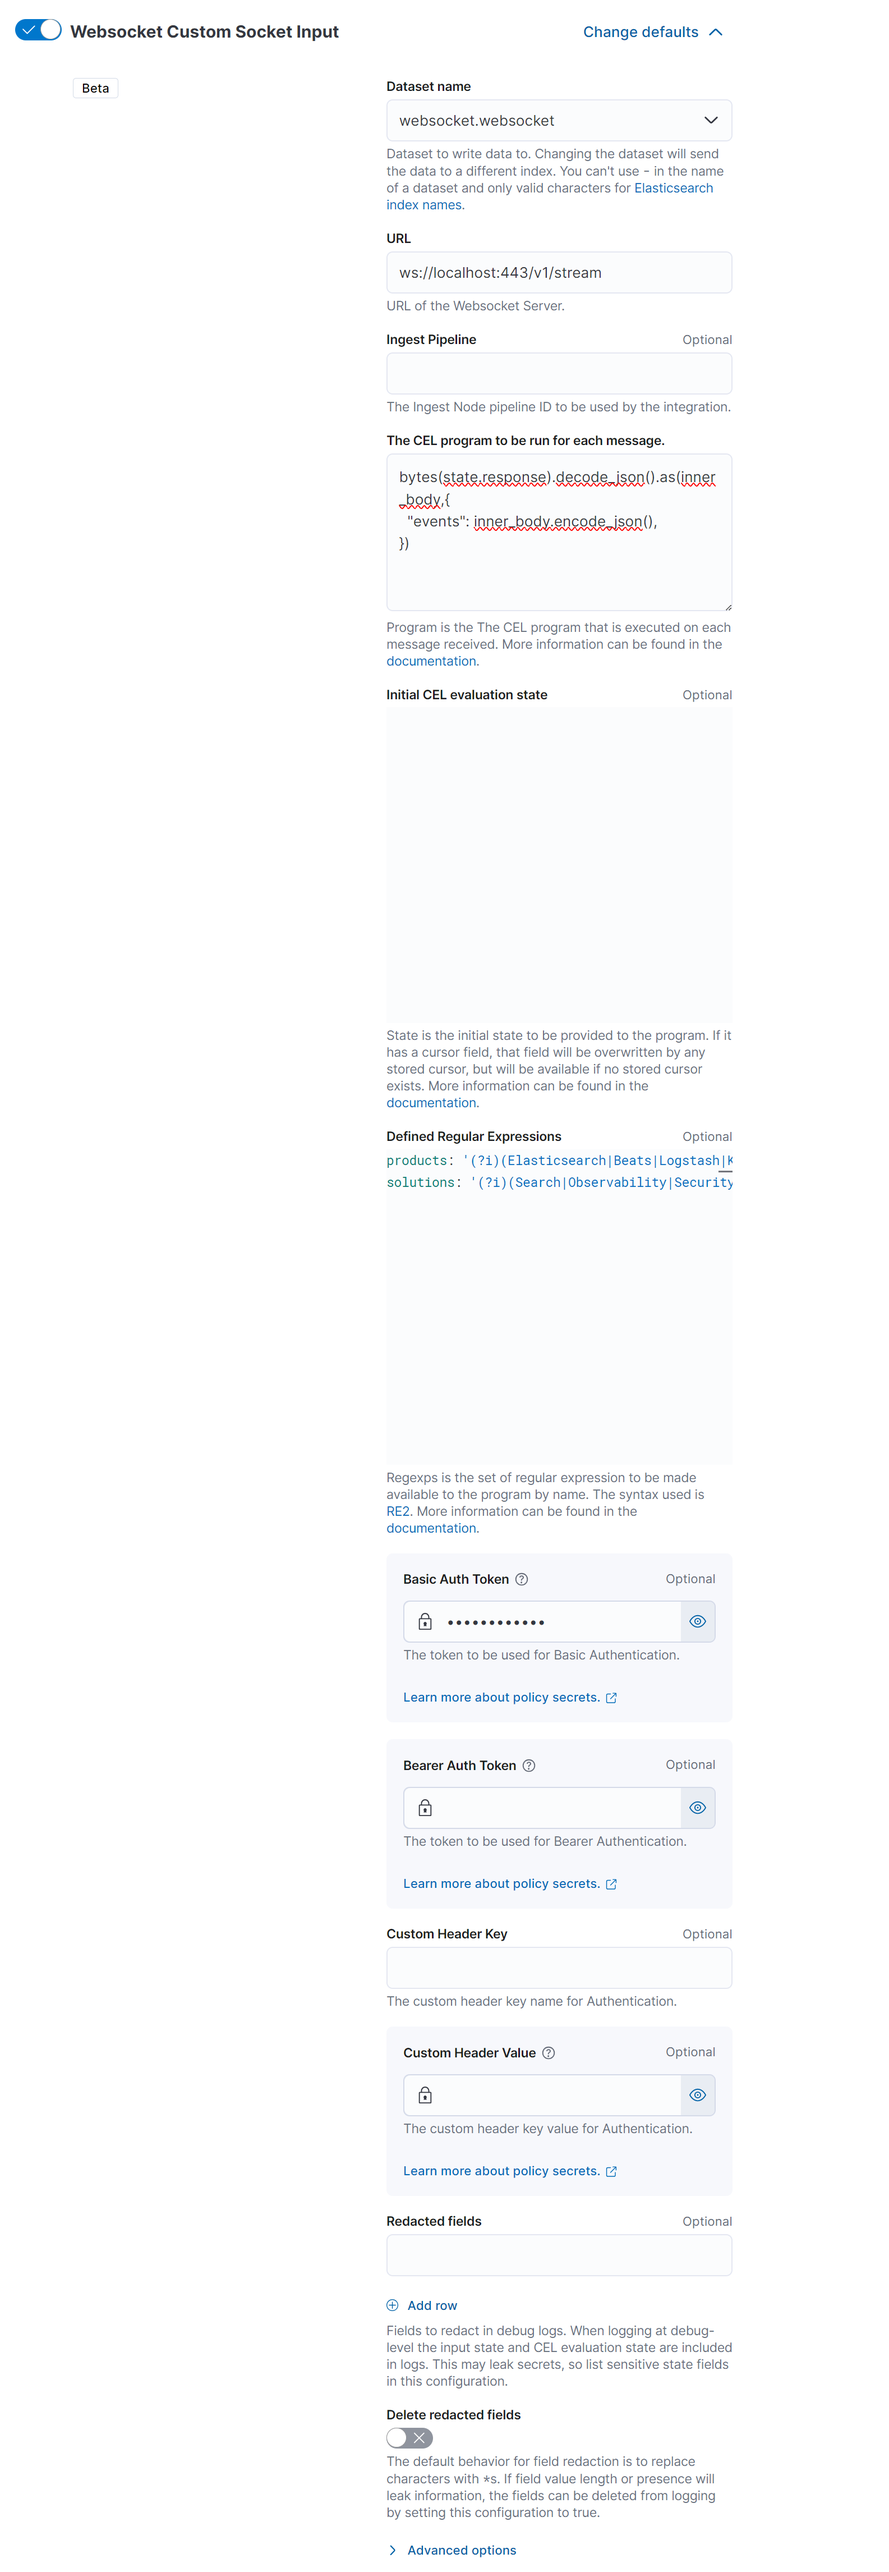
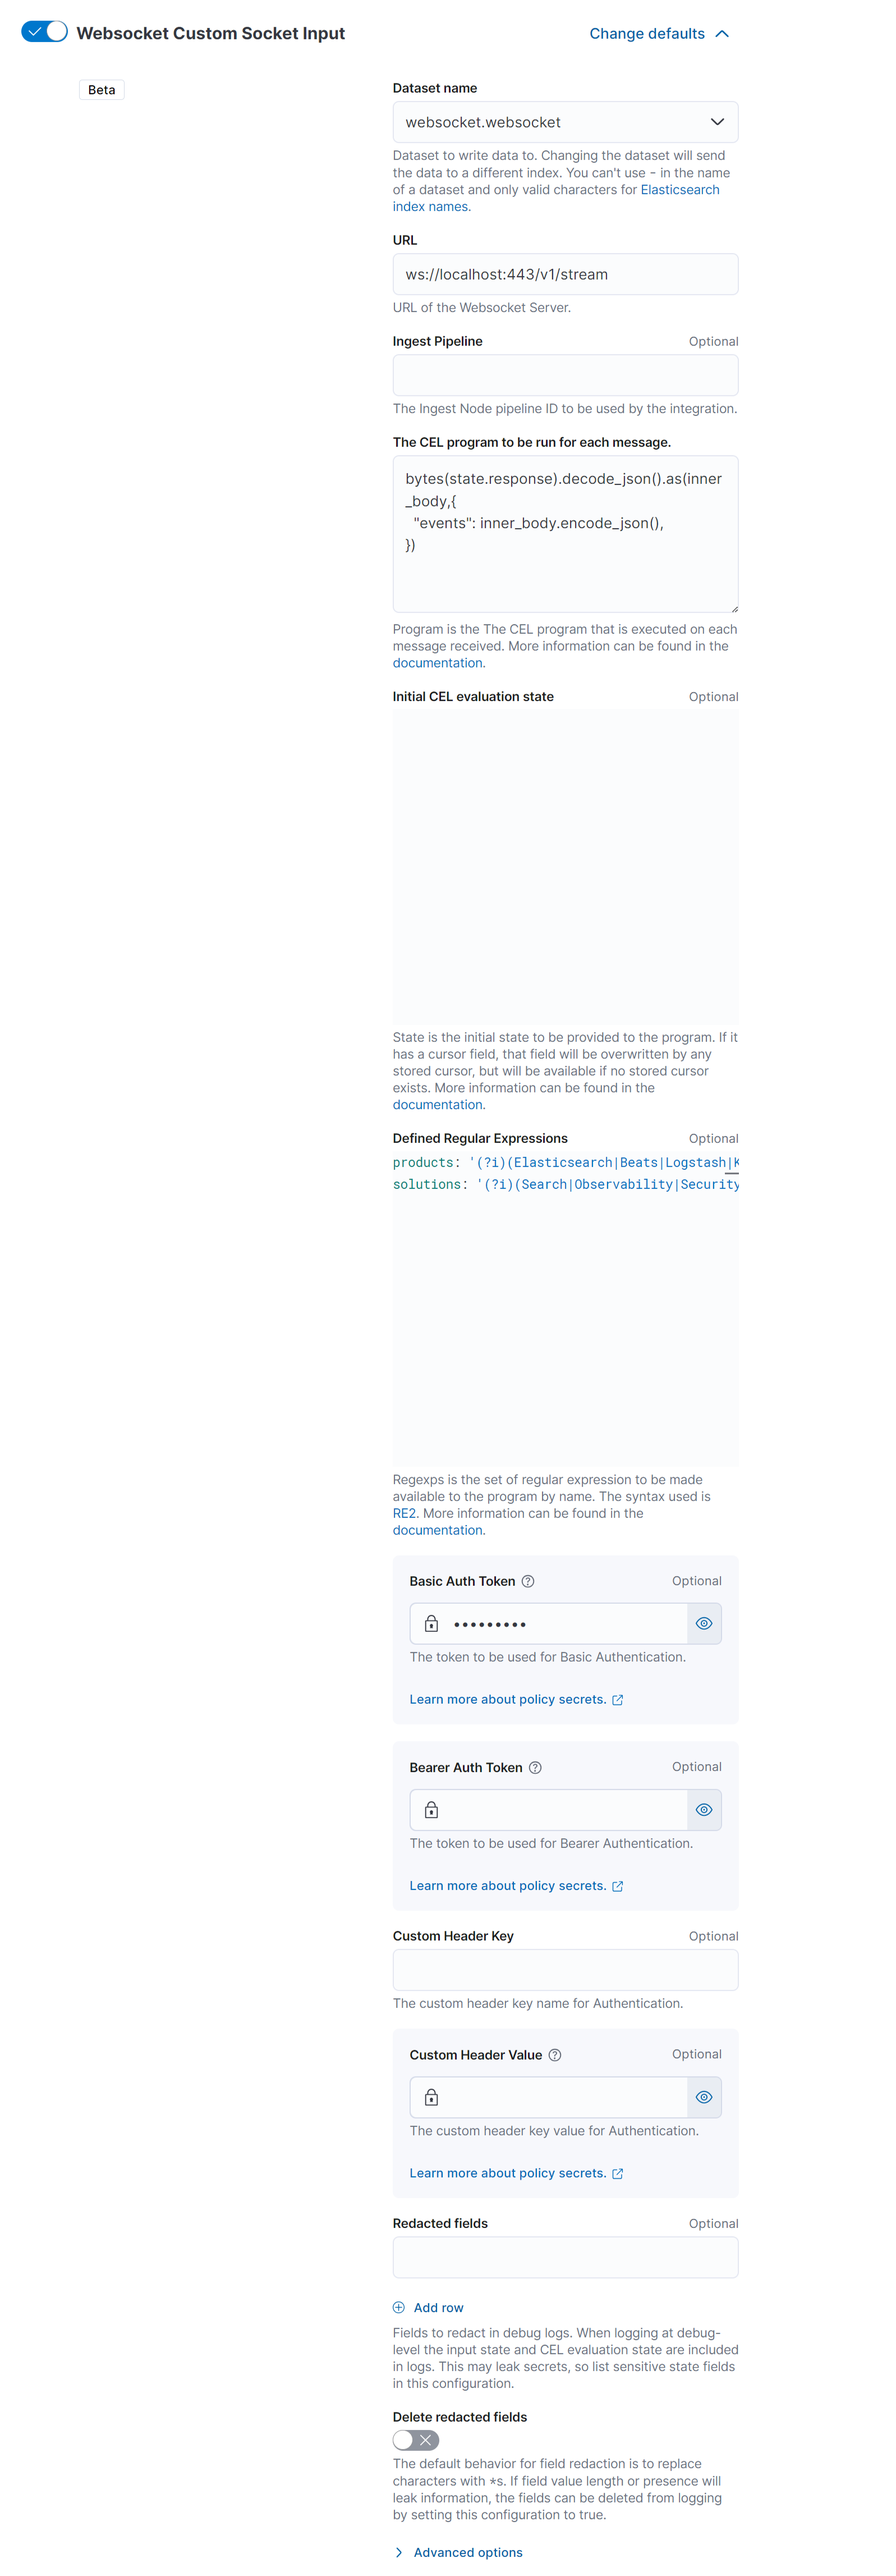
Resolved comments 1. Remove default value of URL from manifest. 2. Reverse the order of function declarations. 3. Added copyright header. 4. Removed note from readme and update screenshot.

diff --git a/packages/websocket/_dev/deploy/docker/websocket-mock-service/main.go b/packages/websocket/_dev/deploy/docker/websocket-mock-service/main.go
@@ -1,3 +1,7 @@
+// Copyright Elasticsearch B.V. and/or licensed to Elasticsearch B.V. under one
+// or more contributor license agreements. Licensed under the Elastic License;
+// you may not use this file except in compliance with the Elastic License.
+
 package main
 
 import (
@@ -7,14 +11,12 @@ import (
 	"github.com/gorilla/websocket"
 )
 
-var upgrader = websocket.Upgrader{
-	CheckOrigin: func(r *http.Request) bool {
-		return true
-	},
+func main() {
+	http.HandleFunc("/", handleWebSocket)
+	log.Fatal(http.ListenAndServe(":3000", nil))
 }
 
 func handleWebSocket(w http.ResponseWriter, r *http.Request) {
-
 	if r.URL.Path == "/testbasicauth" {
 		// Check if the 'Authorization' header is set for basic authentication
 		authHeader := r.Header.Get("Authorization")
@@ -26,6 +28,9 @@ func handleWebSocket(w http.ResponseWriter, r *http.Request) {
 		}
 	}
 
+	upgrader := websocket.Upgrader{
+		CheckOrigin: func(r *http.Request) bool { return true },
+	}
 	conn, err := upgrader.Upgrade(w, r, nil)
 	if err != nil {
 		log.Println(err)
@@ -68,9 +73,4 @@ func handleWebSocket(w http.ResponseWriter, r *http.Request) {
 		log.Println("write:", err)
 		return
 	}
-}
-
-func main() {
-	http.HandleFunc("/", handleWebSocket)
-	log.Fatal(http.ListenAndServe(":3000", nil))
 }

diff --git a/packages/websocket/_dev/build/docs/README.md b/packages/websocket/_dev/build/docs/README.md
@@ -22,8 +22,6 @@ This configuration establishes a WebSocket connection to ws://localhost:443/v1/s
 
 The WebSocket input will consume messages from the server as they are transmitted. These messages are expected to be in a format that Filebeat can process, such as JSON. If the message format is different, you may need to define a processor to parse and structure the data before it is sent to Elasticsearch.
 
-**NOTE**: The websocket input as of now does not support XML messages.
-
 ## Connection Management
 
 The WebSocket input manages the connection to the WebSocket server, including automatically reconnecting if the connection is lost. The input does not maintain any state between restarts, so if the server sends historical data, it will be re-ingested upon reconnection.

diff --git a/packages/websocket/docs/README.md b/packages/websocket/docs/README.md
@@ -22,8 +22,6 @@ This configuration establishes a WebSocket connection to ws://localhost:443/v1/s
 
 The WebSocket input will consume messages from the server as they are transmitted. These messages are expected to be in a format that Filebeat can process, such as JSON. If the message format is different, you may need to define a processor to parse and structure the data before it is sent to Elasticsearch.
 
-**NOTE**: The websocket input as of now does not support XML messages.
-
 ## Connection Management
 
 The WebSocket input manages the connection to the WebSocket server, including automatically reconnecting if the connection is lost. The input does not maintain any state between restarts, so if the server sends historical data, it will be re-ingested upon reconnection.
